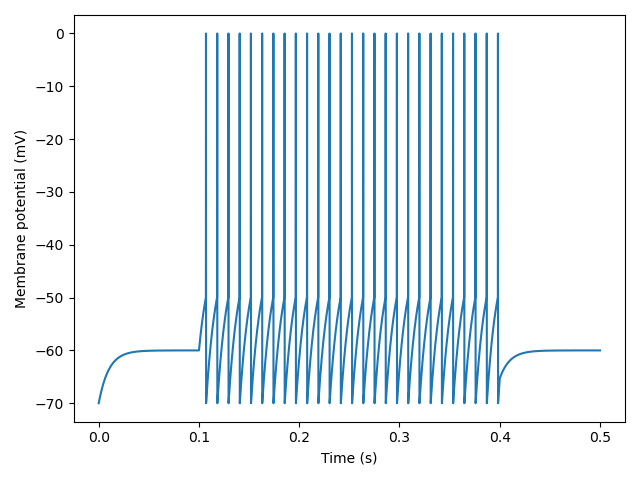
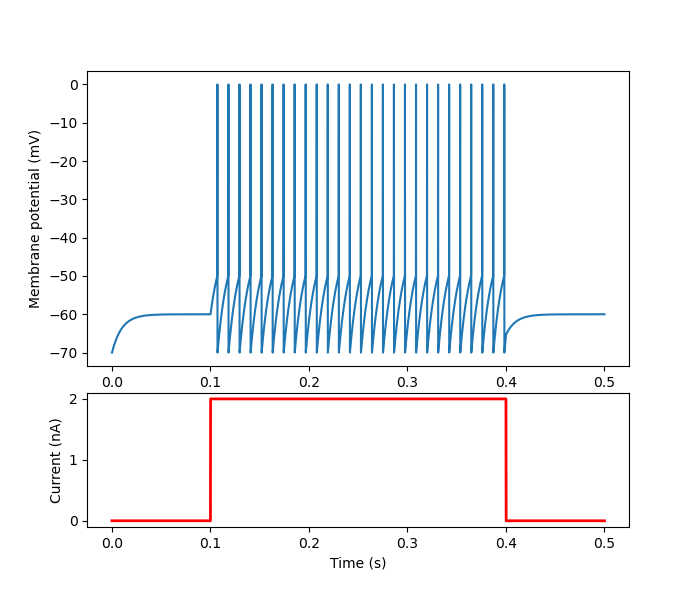
tutorial

diff --git a/neurosim/neurosim.py b/neurosim/neurosim.py
@@ -1103,6 +1103,15 @@ class Simulation:
 
         return plt
 
+    def plotInputCurrent(self,**kwargs):
+        plt.plot(self.simtime/1000,self.input.stim_const,lw=2,color='red')
+        plt.xlabel('Time (s)')
+        plt.ylabel('Current (nA)')
+        if 'show' in kwargs.keys():
+            if kwargs['show']:
+                plt.show()
+        return plt
+
     def print_sim_parameters(self):
         print(f"""
 # ----------- NEURON PARAMETERS ----------- #')
